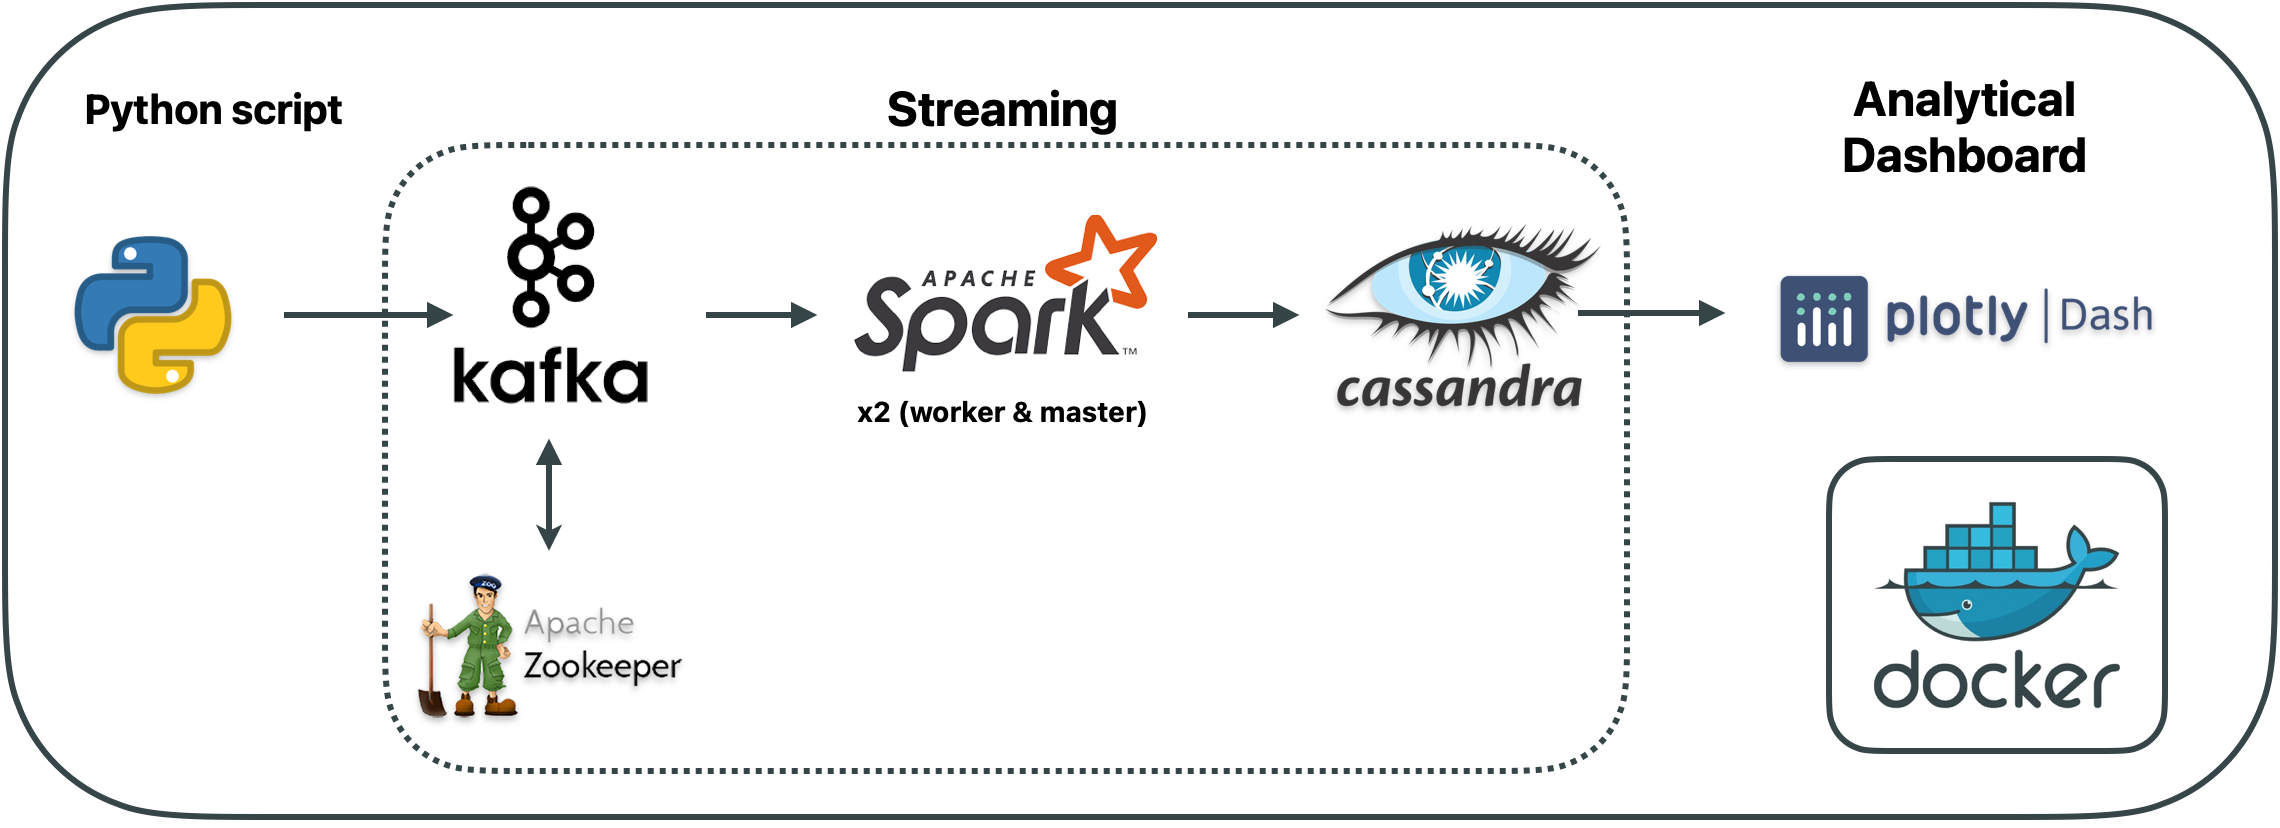
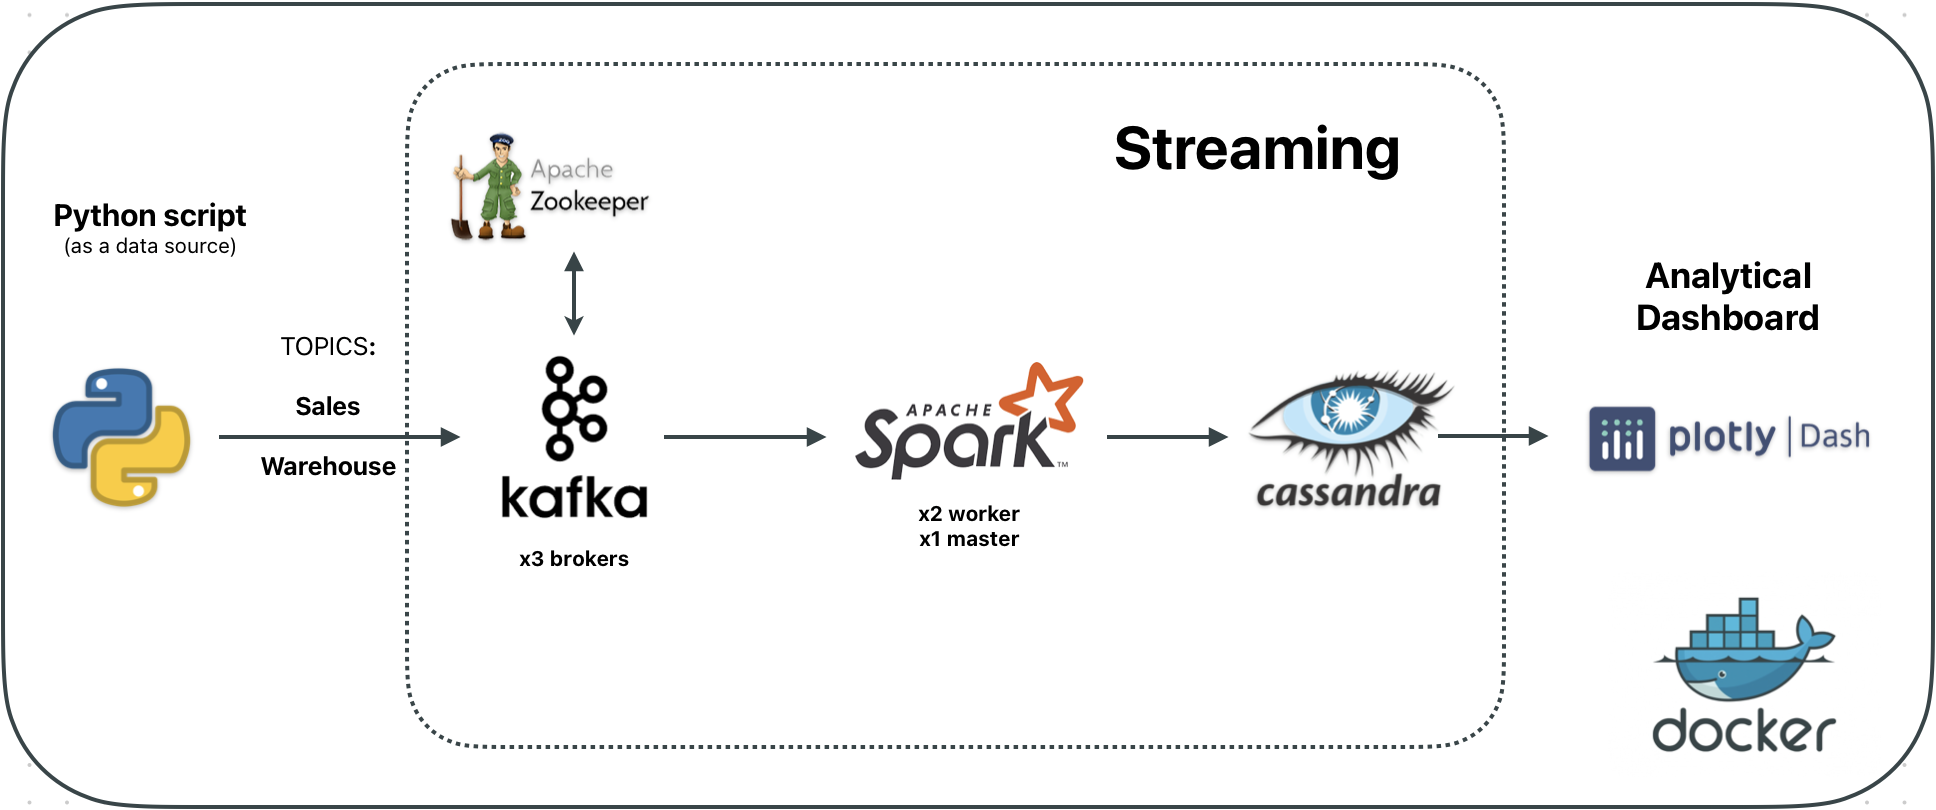
DS-37, DS-45

diff --git a/spark/scripts/warehouse/stream_warehouse.py b/spark/scripts/warehouse/stream_warehouse.py
@@ -1,12 +1,11 @@
 from pyspark.sql import SparkSession, functions as F
-from pyspark.sql.functions import from_json, col
 from pyspark.sql.types import StructType, StructField, StringType, IntegerType
 
 #Spark session initialize
 spark = SparkSession \
     .builder \
-    .appName("KafkaToCassandra") \
-    .config("spark.cassandra.connection.host", "172.30.0.6") \
+    .appName("WarehouseDataStreaming") \
+    .config("spark.cassandra.connection.host", "172.30.0.9") \
     .config("spark.cassandra.connection.port","9042")\
     .config("spark.cassandra.auth.username","cassandra")\
     .config("spark.cassandra.auth.password","cassandra")\
@@ -14,31 +13,47 @@ spark = SparkSession \
     .getOrCreate()
 spark.sparkContext.setLogLevel("ERROR")
 
-#Data Schema
-flat_schema = StructType([
-    StructField("category", StringType(), nullable=False),
-    StructField("subcategories", StringType(), nullable=False),
-    StructField("product", StringType(), nullable=False),
-    StructField("id", IntegerType(), nullable=False),
-	StructField("quantity", IntegerType(), nullable=True),
-    StructField("timestamp", StringType(), nullable=True)
+#Schema
+warehouse_schema = StructType([
+    StructField("Warehouse ID", IntegerType(), nullable=False),
+    StructField("Product ID", IntegerType(), nullable=False),
+    StructField("Product Name", StringType(), nullable=False),
+    StructField("Category", StringType(), nullable=False),
+    StructField("Quantity in Stock", DoubleType(), nullable=False),
+    StructField("Location", StringType(), nullable=False),
+    StructField("Supplier", StringType(), nullable=False),
+    StructField("Restock Frequency", StringType(), nullable=False),
+    StructField("Average Delivery Time (days)", DoubleType(), nullable=False),
+    StructField("Stock Value (USD)", DoubleType(), nullable=False),
+    StructField("Storage Temperature (C)", DoubleType(), nullable=False),
+    StructField("Shelf Life (days)", DoubleType(), nullable=False),
+    StructField("Hazardous Material", StringType(), nullable=False),
+    StructField("Reorder Level", DoubleType(), nullable=False),
+    StructField("Daily Sales (units)", DoubleType(), nullable=False),
+    StructField("Daily Restock (units)", DoubleType(), nullable=False),
+    StructField("Stock Level (units)", IntegerType(), nullable=False),
+    StructField("Sales Forecast (units)", IntegerType(), nullable=False),
+    StructField("Latitude", DoubleType(), nullable=False),
+    StructField("Longitude", DoubleType(), nullable=False),
+    StructField("State", StringType(), nullable=False),
+    StructField("timestamp", TimestampType(), nullable=True)
 ])
 
 kafka_df = spark \
     .readStream \
     .format("kafka") \
-    .option("kafka.bootstrap.servers", "172.30.0.5:9092") \
-    .option("subscribe", "products_data") \
+    .option("kafka.bootstrap.servers", "172.30.0.6:9092, 172.30.0.7:9092, 172.30.0.8:9092") \
+    .option("subscribe", "warehouse") \
     .option("startingOffsets", "earliest") \
     .load()
 
 value_df = kafka_df.selectExpr("CAST(value AS STRING)")
-parsed_df = value_df.withColumn("data", F.from_json(F.col("value"), flat_schema)).select("data.*")
+parsed_df = value_df.withColumn("data", F.from_json(F.col("value"), warehouse_schema)).select("data.*")
 
 #add column record_id as an UUID
 parsed_df = parsed_df.withColumn("record_id", F.expr("uuid()"))
 
-#print to console
+#print to console - as a check
 console_query = parsed_df \
     .writeStream \
     .format("console") \
@@ -46,8 +61,8 @@ console_query = parsed_df \
     .start()
 
 #Cassandra connect credentials
-keyspace = "products_data"
-table = "data"
+keyspace = "company_one"
+table = "warehouse_data"
 
 #save data into Cassandra
 query = parsed_df \

diff --git a/spark/scripts/sales/stream_sales.py b/spark/scripts/sales/stream_sales.py
@@ -1,12 +1,11 @@
 from pyspark.sql import SparkSession, functions as F
-from pyspark.sql.functions import from_json, col
 from pyspark.sql.types import StructType, StructField, StringType, IntegerType
 
 #Spark session initialize
 spark = SparkSession \
     .builder \
-    .appName("KafkaToCassandra") \
-    .config("spark.cassandra.connection.host", "172.30.0.6") \
+    .appName("SalesDataStreaming") \
+    .config("spark.cassandra.connection.host", "172.30.0.9") \
     .config("spark.cassandra.connection.port","9042")\
     .config("spark.cassandra.auth.username","cassandra")\
     .config("spark.cassandra.auth.password","cassandra")\
@@ -15,25 +14,37 @@ spark = SparkSession \
 spark.sparkContext.setLogLevel("ERROR")
 
 #Data Schema
-flat_schema = StructType([
-    StructField("category", StringType(), nullable=False),
-    StructField("subcategories", StringType(), nullable=False),
-    StructField("product", StringType(), nullable=False),
-    StructField("id", IntegerType(), nullable=False),
-	StructField("quantity", IntegerType(), nullable=True),
-    StructField("timestamp", StringType(), nullable=True)
+sales_schema = StructType([
+    StructField("Customer ID", IntegerType(), nullable=False),
+    StructField("Age", IntegerType(), nullable=False),
+    StructField("Gender", StringType(), nullable=False),
+    StructField("Item Purchased", StringType(), nullable=False),
+    StructField("Category", StringType(), nullable=False),
+    StructField("Purchase Amount (USD)", DoubleType(), nullable=False),
+    StructField("Location", StringType(), nullable=False),
+    StructField("Size", StringType(), nullable=False),
+    StructField("Color", StringType(), nullable=False),
+    StructField("Season", StringType(), nullable=False),
+    StructField("Review Rating", DoubleType(), nullable=False),
+    StructField("Subscription Status", StringType(), nullable=False),
+    StructField("Shipping Type", StringType(), nullable=False),
+    StructField("Discount Applied", StringType(), nullable=False),
+    StructField("Promo Code Used", StringType(), nullable=False),
+    StructField("Previous Purchases", IntegerType(), nullable=False),
+    StructField("Payment Method", StringType(), nullable=False),
+    StructField("Frequency of Purchases", StringType(), nullable=False)
 ])
 
 kafka_df = spark \
     .readStream \
     .format("kafka") \
-    .option("kafka.bootstrap.servers", "172.30.0.5:9092") \
-    .option("subscribe", "products_data") \
+    .option("kafka.bootstrap.servers", "172.30.0.6:9092, 172.30.0.7:9092, 172.30.0.8:9092") \
+    .option("subscribe", "sales") \
     .option("startingOffsets", "earliest") \
     .load()
 
 value_df = kafka_df.selectExpr("CAST(value AS STRING)")
-parsed_df = value_df.withColumn("data", F.from_json(F.col("value"), flat_schema)).select("data.*")
+parsed_df = value_df.withColumn("data", F.from_json(F.col("value"), sales_schema)).select("data.*")
 
 #add column record_id as an UUID
 parsed_df = parsed_df.withColumn("record_id", F.expr("uuid()"))
@@ -46,8 +57,8 @@ console_query = parsed_df \
     .start()
 
 #Cassandra connect credentials
-keyspace = "products_data"
-table = "data"
+keyspace = "company_one"
+table = "sales_data"
 
 #save data into Cassandra
 query = parsed_df \
